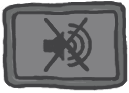
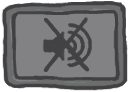
Use mouse-over color for buttons

diff --git a/sources/RecursiveRunnerGame.cpp b/sources/RecursiveRunnerGame.cpp
@@ -410,11 +410,10 @@ void RecursiveRunnerGame::decor(StorageAPI* storageAPI) {
 
     theSoundSystem.mute = muted;
     theMusicSystem.toggleMute(muted);
-    
-    
 }
 
 void RecursiveRunnerGame::initGame(StorageAPI* storageAPI) {
+    Color::nameColor(Color(0.8, 0.8, 0.8), "gray");
     baseLine = PlacementHelper::GimpYToScreen(800);
     leftMostCameraPos =
         Vector2(-PlacementHelper::ScreenWidth * (param::LevelSize * 0.5 - 0.5),
@@ -554,7 +553,10 @@ void RecursiveRunnerGame::tick(float dt) {
         ignoreClick = true;
     } else {
         ignoreClick = BUTTON(muteBtn)->mouseOver;
+        RENDERING(muteBtn)->color = BUTTON(muteBtn)->mouseOver ? Color("gray") : Color();
     }
+
+
     if (theTouchInputManager.isTouched(0)) {
         ignoreClick |= theTouchInputManager.getTouchLastPosition(0).Y
             >= (TRANSFORM(muteBtn)->position.Y - TRANSFORM(muteBtn)->size.Y * BUTTON(muteBtn)->overSize * 0.5);

diff --git a/sources/states/MenuStateManager.cpp b/sources/states/MenuStateManager.cpp
@@ -233,6 +233,7 @@ State::Enum MenuStateManager::update(float) {
         }
         game->ignoreClick = BUTTON(datas->swarmBtn)->mouseOver;
     }
+    RENDERING(datas->swarmBtn)->color = BUTTON(datas->swarmBtn)->mouseOver ? Color("gray") : Color();
 
     // Handle Giftiz button
     if (!game->ignoreClick) {
@@ -241,6 +242,7 @@ State::Enum MenuStateManager::update(float) {
         }
         game->ignoreClick = BUTTON(datas->giftizBtn)->mouseOver;
     }
+    RENDERING(datas->giftizBtn)->color = BUTTON(datas->giftizBtn)->mouseOver ? Color("gray") : Color();
 
     // Start game ?
     if (theTouchInputManager.isTouched(0) && theTouchInputManager.wasTouched(0) && !game->ignoreClick) {

diff --git a/sources/states/PauseStateManager.cpp b/sources/states/PauseStateManager.cpp
@@ -136,6 +136,10 @@ void PauseStateManager::enter(State::Enum) {
 }
 
 State::Enum PauseStateManager::update(float) {
+    RENDERING(datas->continueButton)->color = BUTTON(datas->continueButton)->mouseOver ? Color("gray") : Color();
+    RENDERING(datas->restartButton)->color = BUTTON(datas->restartButton)->mouseOver ? Color("gray") : Color();
+    RENDERING(datas->stopButton)->color = BUTTON(datas->stopButton)->mouseOver ? Color("gray") : Color();
+ 
     if (BUTTON(datas->continueButton)->clicked) {
         return State::Game;
     } else if (BUTTON(datas->restartButton)->clicked) {

diff --git a/sources/states/GameStateManager.cpp b/sources/states/GameStateManager.cpp
@@ -150,6 +150,7 @@ State::Enum GameStateManager::update(float dt) {
     if (BUTTON(datas->pauseButton)->clicked) {
         return State::Pause;
     }
+    RENDERING(datas->pauseButton)->color = BUTTON(datas->pauseButton)->mouseOver ? Color("gray") : Color();
 
     // Manage player's current runner
     for (unsigned i=0; i<sc->numPlayers; i++) {
